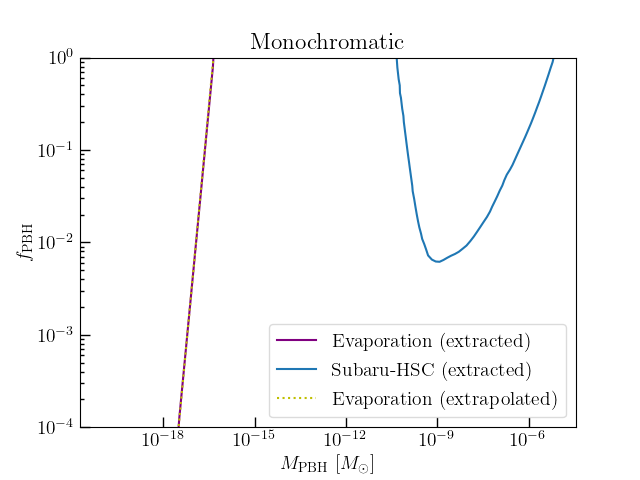
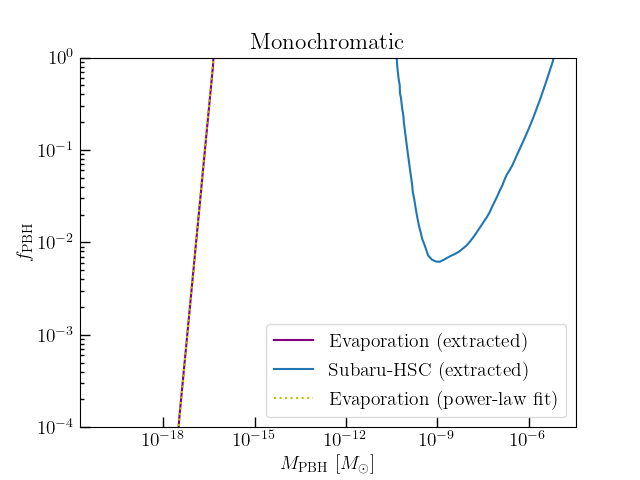
Correct x-axis plotting for the power-law approximation to the monochromatic evaporation constraints.

diff --git a/reproduce_extended_MF.py b/reproduce_extended_MF.py
@@ -86,7 +86,7 @@ m_range = 10**np.arange(-20, -10, 0.05)
 f_max_evaporation_mono_extrapolated = prefactor * np.power(m_range, power)
 
 # Range of characteristic masses in log-normal mass function for the power-law approximation
-mc_evaporation_extrapolated = 10**np.linspace(-20, -10, 100)
+mc_evaporation_extrapolated = 10**np.linspace(-18, -12, 100)
 
 # Subaru-HSC constraints
 mc_subaru = 10**np.linspace(-11.5, -4.5, 100)
@@ -103,9 +103,11 @@ for m_c in mc_evaporation:
     
     def f_constraint_function_evap(f_pbh):
         return left_riemann_sum(integrand(m_evaporation_mono, m_c, f_max_evaporation_mono, f_pbh), m_evaporation_mono) - 1
+    
     f_pbh_evap.append(findroot(f_constraint_function_evap, 1, 1e-4, tolerance = 1e-8, n_max = n_max))
 
 for m_c in mc_evaporation_extrapolated:
+    
     def f_constraint_function_evap_extrapolated(f_pbh):
         return left_riemann_sum(integrand(m_range, m_c, f_max_evaporation_mono_extrapolated, f_pbh), m_range) - 1
 
@@ -125,7 +127,7 @@ for m_c in mc_subaru:
 plt.figure()
 plt.plot(m_evaporation_mono, f_max_evaporation_mono, label='Evaporation (extracted)', color='purple')
 plt.plot(m_subaru_mono, f_max_subaru_mono, label='Subaru-HSC (extracted)', color='tab:blue')
-plt.plot(m_range, f_max_evaporation_mono_extrapolated, label='Evaporation (extrapolated)', color='y', linestyle='dotted')
+plt.plot(m_range, f_max_evaporation_mono_extrapolated, label='Evaporation (power-law fit)', color='y', linestyle='dotted')
 
 plt.xlabel('$M_\mathrm{PBH}~[M_\odot]$')
 plt.ylabel('$f_\mathrm{PBH}$')
@@ -140,7 +142,7 @@ plt.savefig('Extracted_constraints.png')
 plt.figure(figsize=(6,5))
 plt.plot(mc_evaporation[:-1], f_pbh_evap[:-1], label='Computed')
 plt.plot(mc_evaporation_LN, f_pbh_evaporation_LN, label='Extracted')
-plt.plot(mc_evaporation, f_pbh_evap_extrapolated, label='Computed (power-law fit)')
+plt.plot(mc_evaporation_extrapolated, f_pbh_evap_extrapolated, label='Computed (power-law fit)')
 plt.xlabel('$M_c ~[M_\odot]$')
 plt.ylabel('$f_\mathrm{PBH}$')
 plt.title('Log-normal $(\sigma = 2)$')
